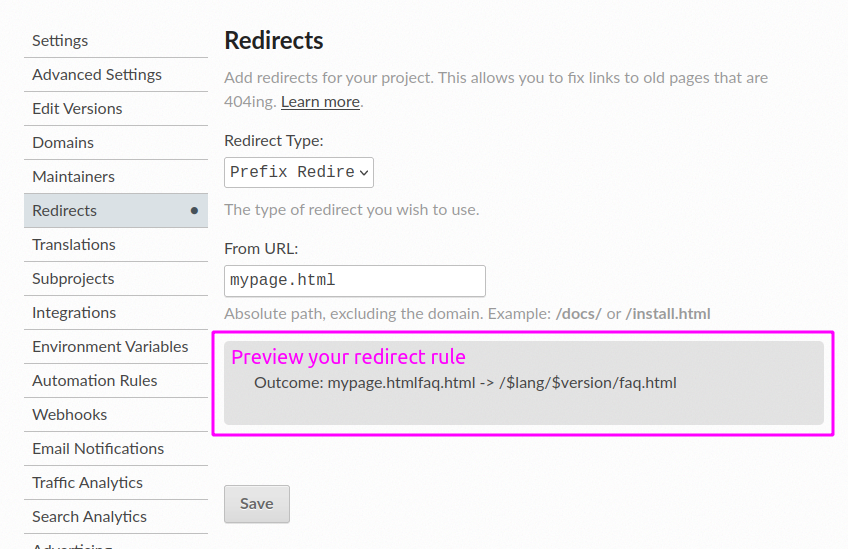
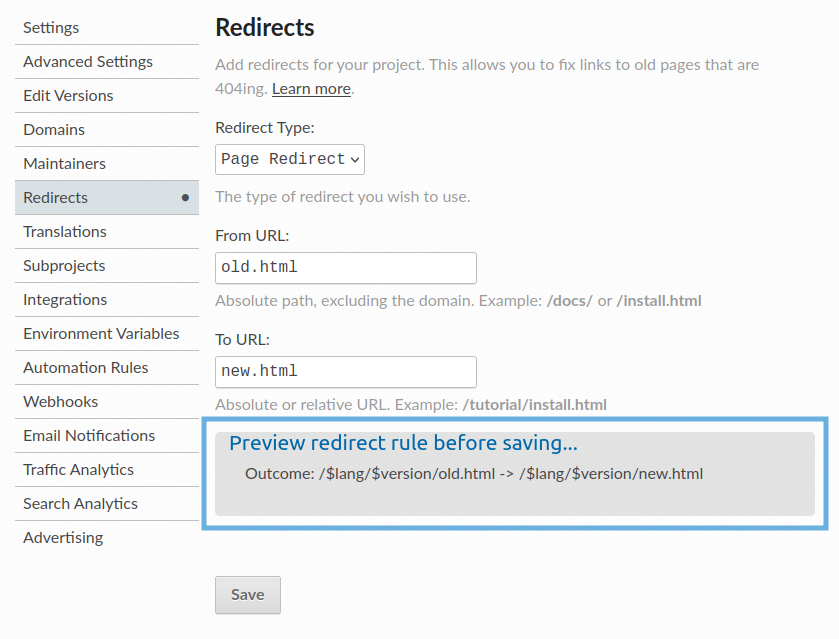
Some final reviewing of my own texts before asking for review...

diff --git a/docs/user/automatic-redirects.rst b/docs/user/automatic-redirects.rst
@@ -6,7 +6,7 @@ Best practices for linking to your documentation
 ================================================
 
 Once you start to publish documentation,
-it will inevitably be referenced in external sources.
+external sources will inevitably link to specific pages in your documentation.
 
 Sources of incoming links vary greatly depending on the type of documentation project that is published.
 They can include everything from old emails to GitHub issues, wiki articles, software comments, PDF publications, StackOverflow answers etc.
@@ -51,8 +51,8 @@ you most likely want users clicking on incoming links to see the latest version 
 Good practice ✅
 ~~~~~~~~~~~~~~~~
 
-* Use `page redirects <Redirecting to a page>`_ if you are linking to the page in the default version of the default language.
-* If you move a page that likely has incoming references, :doc:`create a redirect rule </user-defined-redirects>`.
+* Use `page redirects <user-defined-redirects:Page redirects>`_ if you are linking to the page in the default version of the default language.
+* If you move a page that likely has incoming references, :doc:`create a custom redirect rule </guides/redirects>`.
 * Links from other Sphinx projects should use :doc:`intersphinx </guides/intersphinx>`.
 * Use minimal page :term:`slugs <slug>` that do not attract renaming suggestions.
 * When possible,
@@ -84,7 +84,7 @@ Questionable practice 🟡
    404 pages are also okay!
      If documentation pages have been removed or moved,
      it can make the maintainer of the referring website aware that they need to update their link.
-     Users will be aware that the documentation still exist but has changed.
+     Users will be aware that the documentation **project** still exists but has changed.
 
      The default Read the Docs 404 page is designed to be helpful,
      but you can also design your own, see :ref:`hosting:Custom Not Found (404) Pages`.

diff --git a/docs/user/guides/redirects.rst b/docs/user/guides/redirects.rst
@@ -26,13 +26,8 @@ go to :menuselection:`Admin > Redirects`.
 
 .. figure:: /img/screenshot_redirects.png
    :alt: Screenshot of the Redirect admin page
-   :scale: 50%
-   :align: center
 
-   Navigate to the :guilabel:`Redirect` page and you will see an overview of all active rules.
-   In this guide, we go through how to use the :guilabel:`Add Redirect` function.
-
-After navigating to :guilabel:`Add Redirect`,
+After clicking :guilabel:`Add Redirect`,
 you need to select a :guilabel:`Redirect Type`.
 This is where things get a bit more complicated you need to fill in specific information according to that choice.
 
@@ -41,12 +36,10 @@ Choosing a :guilabel:`Redirect Type`
 
 There are different types of redirect rules targeting different needs.
 For each choice in :guilabel:`Redirect Type`,
-you can mark the choice in order to experiment with choices in order to **preview** the final rule generated.
+you can mark the choice in order to experiment and **preview** the final rule generated.
 
-.. image:: /img/screenshot_redirects_preview.png
+.. figure:: /img/screenshot_redirects_preview.png
    :alt: Screenshot of the Redirect "Add Redirect" form
-   :scale: 50%
-   :align: center
 
 Here is a quick overview of the options available in :guilabel:`Redirect Type`:
 
@@ -112,7 +105,7 @@ Your redirect rules is added and effective immediately after saving it.
 
 After adding the rule,
 you can add more redirects as needed.
-There are now immediate upper bounds to how many redirect rules a project may define.
+There are no immediate upper bounds to how many redirect rules a project may define.
 
 Editing and deleting redirect rules
 -----------------------------------

diff --git a/docs/user/user-defined-redirects.rst b/docs/user/user-defined-redirects.rst
@@ -47,6 +47,9 @@ Built-in redirects
 This article explains the redirects that are automatically active for all Read the Docs projects and how they are useful.
 Automatic redirects on Read the Docs are supported long-term.
 
+Built-in redirects are especially useful for creating and sharing **incoming links**
+which is discussed indepth in :doc:`/automatic-redirects`.
+
 Page redirects at ``/page/``
 ~~~~~~~~~~~~~~~~~~~~~~~~~~~~~~
 
